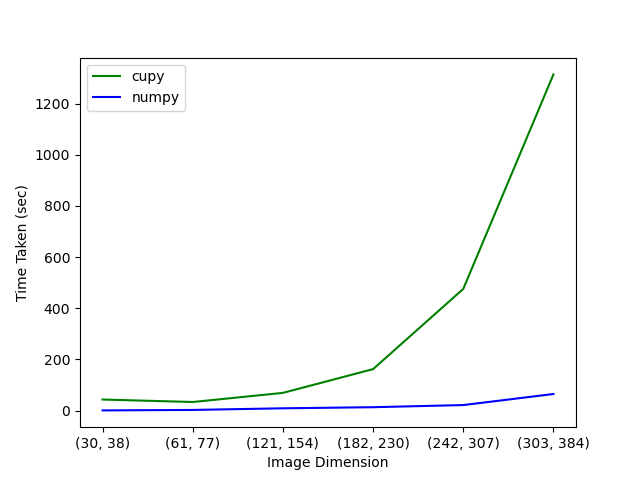
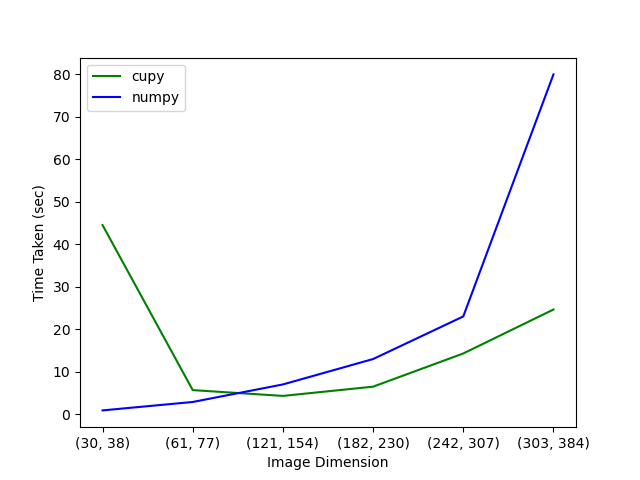
add updated plot for NVIDIA and AMD and misc

diff --git a/README.md b/README.md
@@ -58,4 +58,8 @@ image for cupy and numpy array, i.e. on CPU and GPU.
 This will also create a plot of the performance comparison between numpy and cupy,
 which would look something like:
 
-![cupy vs numpy](numpy_vs_cupy_comparison.png)
+#### On NVIDIA GPU
+![cupy vs numpy](numpy_vs_cupy_nvidia.png)
+
+#### On AMD GPU
+![cupy vs numpy](numpy_vs_cupy_amd.png)
